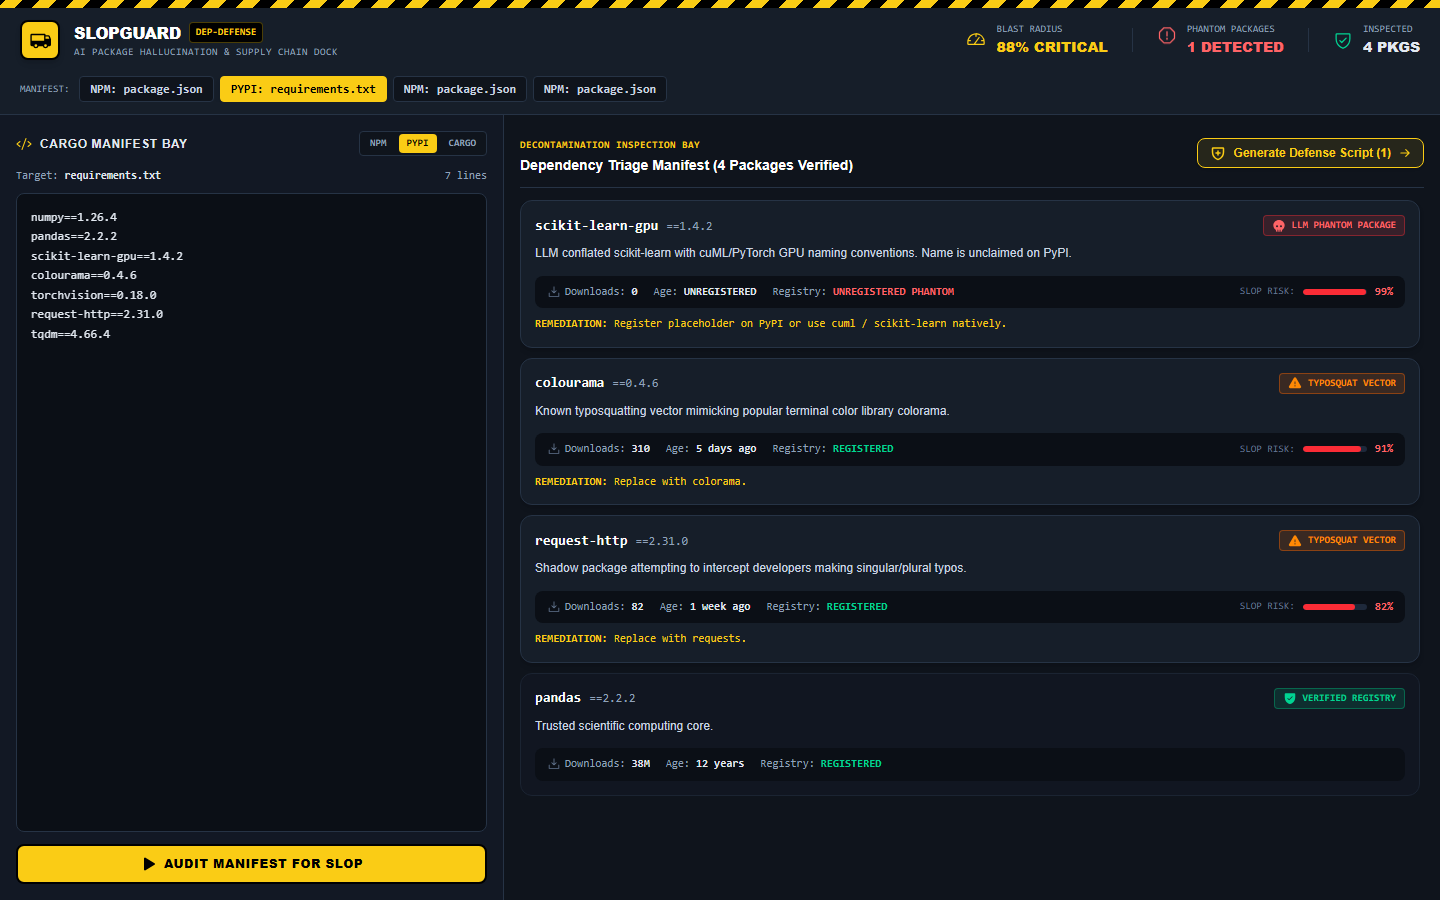
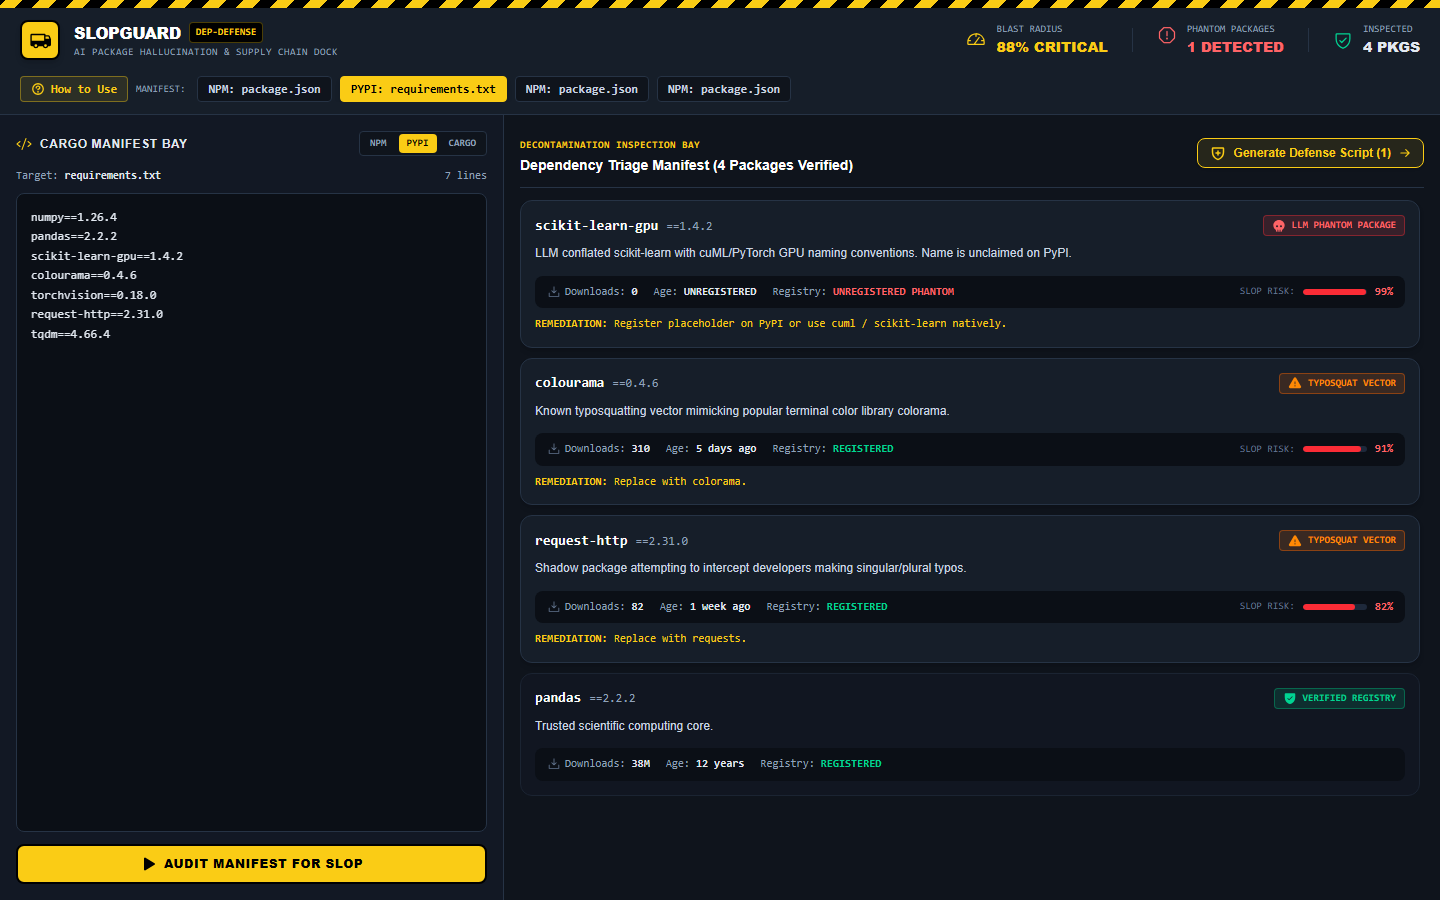
feat: add interactive checkpoint guide modal, comprehensive documentation, and live demo badges

Changed region(s): [[0.0, 0.0622, 0.5312, 0.1244]]

diff --git a/src/components/SlopGuideModal.tsx b/src/components/SlopGuideModal.tsx
@@ -1,0 +1,91 @@
+import { X, Truck, Code, Skull, ShieldPlus, ShieldCheck } from '@phosphor-icons/react';
+
+interface SlopGuideModalProps {
+  isOpen: boolean;
+  onClose: () => void;
+}
+
+export function SlopGuideModal({ isOpen, onClose }: SlopGuideModalProps) {
+  if (!isOpen) return null;
+
+  const steps = [
+    {
+      icon: <Code size={18} className="text-[#facc15]" />,
+      title: '1. Load or Paste Dependency Manifest',
+      description: 'Select your ecosystem (npm, PyPI, Cargo) and choose a manifest preset or paste custom package.json / requirements.txt dependencies into the Cargo Manifest Bay.'
+    },
+    {
+      icon: <Truck size={18} className="text-[#facc15]" />,
+      title: '2. Execute Manifest Security Audit',
+      description: 'Click "Audit Manifest for Slop". The engine verifies package provenance, age, download velocity, and AI hallucination probabilities.'
+    },
+    {
+      icon: <Skull size={18} className="text-red-400" />,
+      title: '3. Triage Supply Chain Risks',
+      description: 'Inspect highlighted risk badges in the Decontamination Bay: "LLM PHANTOM PACKAGE" (unclaimed name that attackers can register to backdoor builds), "TYPOSQUAT VECTOR", or "POISONED HOOK".'
+    },
+    {
+      icon: <ShieldPlus size={18} className="text-[#facc15]" />,
+      title: '4. Generate Defensive Claim Scripts',
+      description: 'Click "Generate Defense Script". Copy the automated bash script to publish inert defensive placeholder packages to npm/PyPI to preemptively neutralize hallucinated name squatting.'
+    }
+  ];
+
+  return (
+    <div className="fixed inset-0 z-50 flex items-center justify-center bg-black/85 p-4 backdrop-blur-sm">
+      <div className="w-full max-w-xl rounded-2xl border-2 border-[#263345] bg-[#161e29] shadow-2xl overflow-hidden flex flex-col text-slate-200">
+        {/* Header */}
+        <div className="flex items-center justify-between border-b border-[#263345] px-6 py-4 bg-[#0f141c]">
+          <div className="flex items-center gap-2.5">
+            <div className="flex h-8 w-8 items-center justify-center rounded-lg border border-black bg-[#facc15] text-black">
+              <ShieldCheck size={18} weight="fill" />
+            </div>
+            <div>
+              <h3 className="font-display text-sm font-bold text-white uppercase tracking-wider">
+                SLOPGUARD CHECKPOINT PROTOCOL
+              </h3>
+              <p className="font-mono text-[10px] text-[#facc15]">
+                AI SUPPLY CHAIN DEFENSE & QUARANTINE WORKFLOW
+              </p>
+            </div>
+          </div>
+          <button
+            onClick={onClose}
+            className="flex h-8 w-8 items-center justify-center rounded-lg text-slate-400 hover:bg-[#263345] hover:text-white transition-colors"
+          >
+            <X size={16} />
+          </button>
+        </div>
+
+        {/* Steps */}
+        <div className="p-6 space-y-3.5 max-h-[70vh] overflow-y-auto font-body text-xs">
+          {steps.map((s, idx) => (
+            <div key={idx} className="flex items-start gap-3.5 rounded-xl border border-[#263345] bg-[#0f141c] p-3.5">
+              <div className="flex h-8 w-8 shrink-0 items-center justify-center rounded-lg bg-[#263345]/50">
+                {s.icon}
+              </div>
+              <div>
+                <h4 className="font-display text-xs font-bold text-white">
+                  {s.title}
+                </h4>
+                <p className="mt-1 text-xs leading-relaxed text-slate-300">
+                  {s.description}
+                </p>
+              </div>
+            </div>
+          ))}
+        </div>
+
+        {/* Footer */}
+        <div className="flex items-center justify-end border-t border-[#263345] px-6 py-3 bg-[#0f141c]">
+          <button
+            onClick={onClose}
+            className="rounded-lg border border-black bg-[#facc15] px-4 py-2 font-display text-xs font-bold text-black hover:bg-[#eab308] transition-colors"
+          >
+            Access Checkpoint
+          </button>
+        </div>
+      </div>
+    </div>
+  );
+}

diff --git a/src/components/IndustrialHeader.tsx b/src/components/IndustrialHeader.tsx
@@ -1,4 +1,4 @@
-import { ShieldCheck, WarningOctagon, Truck, Gauge } from '@phosphor-icons/react';
+import { ShieldCheck, WarningOctagon, Truck, Gauge, Question } from '@phosphor-icons/react';
 import type { ManifestPreset } from '../types/scanner';
 
 interface IndustrialHeaderProps {
@@ -8,6 +8,7 @@ interface IndustrialHeaderProps {
   blastRadius: number;
   totalDependencies: number;
   hallucinatedCount: number;
+  onOpenGuide: () => void;
 }
 
 export function IndustrialHeader({
@@ -16,7 +17,8 @@ export function IndustrialHeader({
   onSelectPreset,
   blastRadius,
   totalDependencies,
-  hallucinatedCount
+  hallucinatedCount,
+  onOpenGuide
 }: IndustrialHeaderProps) {
   return (
     <header className="border-b border-[#263345] bg-[#161e29]">
@@ -84,8 +86,16 @@ export function IndustrialHeader({
           </div>
         </div>
 
-        {/* Preset Selector Buttons */}
-        <div className="flex items-center gap-1.5 overflow-x-auto">
+        {/* Preset Selector & Guide */}
+        <div className="flex items-center gap-2 overflow-x-auto">
+          <button
+            onClick={onOpenGuide}
+            className="flex items-center gap-1.5 rounded border border-[#facc15]/40 bg-[#facc15]/10 px-2.5 py-1 font-mono text-xs font-bold text-[#facc15] hover:bg-[#facc15] hover:text-black transition-colors"
+          >
+            <Question size={14} weight="bold" />
+            <span>How to Use</span>
+          </button>
+
           <span className="font-mono text-[10px] uppercase text-slate-400 mr-1 hidden lg:inline">
             MANIFEST:
           </span>

diff --git a/src/App.tsx b/src/App.tsx
@@ -5,6 +5,7 @@ import { IndustrialHeader } from './components/IndustrialHeader';
 import { CargoManifestBay } from './components/CargoManifestBay';
 import { DecontaminationBay } from './components/DecontaminationBay';
 import { QuarantineModal } from './components/QuarantineModal';
+import { SlopGuideModal } from './components/SlopGuideModal';
 
 export default function App() {
   const [activePreset, setActivePreset] = useState<ManifestPreset>(MANIFEST_PRESETS[0]);
@@ -12,6 +13,7 @@ export default function App() {
   const [ecosystem, setEcosystem] = useState<Ecosystem>(MANIFEST_PRESETS[0].ecosystem);
   const [isAuditing, setIsAuditing] = useState(false);
   const [isQuarantineOpen, setIsQuarantineOpen] = useState(false);
+  const [isGuideOpen, setIsGuideOpen] = useState(false);
 
   // Switch preset
   const handleSelectPreset = (preset: ManifestPreset) => {
@@ -43,6 +45,7 @@ export default function App() {
         blastRadius={activePreset.blastRadius}
         totalDependencies={activePreset.dependencies.length}
         hallucinatedCount={hallucinatedDeps.length}
+        onOpenGuide={() => setIsGuideOpen(true)}
       />
 
       {/* Main Two-Tier Industrial Checkpoint */}
@@ -75,6 +78,12 @@ export default function App() {
         isOpen={isQuarantineOpen}
         onClose={() => setIsQuarantineOpen(false)}
         hallucinatedDeps={hallucinatedDeps}
+      />
+
+      {/* Instructional Guide Modal */}
+      <SlopGuideModal
+        isOpen={isGuideOpen}
+        onClose={() => setIsGuideOpen(false)}
       />
     </div>
   );

diff --git a/README.md b/README.md
@@ -1,32 +1,83 @@
-# React + TypeScript + Vite
+# SlopGuard — AI Package Hallucination & Supply Chain Scanner
 
-This template provides a minimal setup to get React working in Vite with HMR and some Oxlint rules.
+[![Live Demo](https://img.shields.io/badge/Live%20Demo-Vercel-facc15?style=for-the-badge&logo=vercel)](https://slopguard-nyzxis.vercel.app/)
+[![License: MIT](https://img.shields.io/badge/License-MIT-blue.svg?style=for-the-badge)](LICENSE)
+[![Built With: React + Vite + TS](https://img.shields.io/badge/Built%20With-React%20%7C%20Vite%20%7C%20TS%20%7C%20Tailwind%20v4-eab308?style=for-the-badge)](https://vitejs.dev/)
 
-Currently, two official plugins are available:
+> **Live Demo:** [https://slopguard-nyzxis.vercel.app/](https://slopguard-nyzxis.vercel.app/)
 
-- [@vitejs/plugin-react](https://github.com/vitejs/vite-plugin-react/blob/main/packages/plugin-react) uses [Oxc](https://oxc.rs)
-- [@vitejs/plugin-react-swc](https://github.com/vitejs/vite-plugin-react/blob/main/packages/plugin-react-swc) uses [SWC](https://swc.rs/)
+**SlopGuard** is an industrial software supply chain security auditor and package hallucination detector. It protects modern development workflows against AI-generated dependency hallucinations (phantom packages), typosquatting vectors, and poisoned lifecycle install scripts across the npm, PyPI, and Cargo ecosystems.
 
-## React Compiler
+---
 
-The React Compiler is not enabled on this template because of its impact on dev & build performances. To add it, see [this documentation](https://react.dev/learn/react-compiler/installation).
+## The Threat: AI Package Hallucinations
 
-## Expanding the Oxlint configuration
+When developers ask LLMs (such as ChatGPT, Claude, Copilot, or Cursor) to write software, the models frequently hallucinate non-existent packages (e.g. `@next-auth/secure-cookies` or `scikit-learn-gpu`). 
 
-If you are developing a production application, we recommend enabling type-aware lint rules by installing `oxlint-tsgolint` and editing `.oxlintrc.json`:
+Threat actors constantly scan for popular AI hallucinations, register those unclaimed package names on public registries, and publish malicious packages with `preinstall` scripts. When unsuspecting developers install the AI-recommended dependencies, their workstations and CI/CD pipelines are backdoored. **SlopGuard eliminates this attack surface.**
 
-```json
-{
-  "$schema": "./node_modules/oxlint/configuration_schema.json",
-  "plugins": ["react", "typescript", "oxc"],
-  "options": {
-    "typeAware": true
-  },
-  "rules": {
-    "react/rules-of-hooks": "error",
-    "react/only-export-components": ["warn", { "allowConstantExport": true }]
-  }
-}
+---
+
+## Key Features
+
+- **Two-Tier Industrial Checkpoint Layout**:
+  - **Cargo Manifest Bay (35%)**: Multi-ecosystem manifest editor with syntax formatting for `package.json`, `requirements.txt`, and `Cargo.toml`.
+  - **Decontamination Inspection Bay (65%)**: Scanned package triage cards detailing registry existence, download velocity, age, and AI hallucination risk scores.
+- **Multi-Vector Threat Detection**:
+  - **LLM Phantom Packages**: Detects packages that do not exist on public registries and are ripe for attacker squatting.
+  - **Typosquatting Detection**: Identifies subtle name variations mimicking popular modules (e.g. `colourama` vs `colorama` or `request-http` vs `requests`).
+  - **Malicious Lifecycle Hooks**: Flags suspicious `preinstall`/`postinstall` scripts that exfiltrate environment tokens or pipe curl to bash.
+- **Automated Defense Claim Script Generator**: One-click modal generating copyable bash scripts to preemptively register safe placeholder packages on npm/PyPI to neutralize threat actor squatting.
+- **Instructional Checkpoint Protocol**: Integrated "How to Use" guide modal walking security engineers through supply chain triage.
+
+---
+
+## How to Use
+
+1. **Select Ecosystem & Manifest**:
+   - Choose your target ecosystem (**npm**, **PyPI**, or **Cargo**).
+   - Click a preset (*LLM-Hallucinated Next.js*, *Python Data Science Typosquats*, *Malicious Hook*, *Clean Enterprise*) or paste your manifest into the **Cargo Manifest Bay**.
+2. **Audit Manifest**:
+   - Click **Audit Manifest for Slop**. The engine evaluates download telemetry, registry existence, and hallucination scores.
+3. **Triage Flagged Packages**:
+   - Review the triage cards in the **Decontamination Bay**.
+   - Note any **LLM PHANTOM PACKAGE** or **TYPOSQUAT VECTOR** badges.
+4. **Generate Defensive Placeholders**:
+   - Click **Generate Defense Script**.
+   - Copy the generated bash script to publish safe inert placeholders to public registries before malicious actors can register them.
+
+---
+
+## Design System
+
+- **Aesthetic**: Heavy-Duty Freight Terminal / Cargo Inspection Checkpoint
+- **Palette**: Matte Slate Asphalt (`#0f141c`), High-Visibility Hazard Yellow (`#facc15` / `#eab308`), Safety Orange (`#f97316`), Diagonal Caution Stripes
+- **Typography**: Bricolage Grotesque (punchy industrial headings), DM Sans (body copy), Red Hat Mono (manifests & code)
+- **Layout**: Two-tier split cockpit with caution hazard warning header and floating defense generator modal
+
+---
+
+## Local Development
+
+```bash
+# Clone the repository
+git clone https://github.com/nyzxis/slopguard.git
+cd slopguard
+
+# Install dependencies
+npm install
+
+# Start local development server
+npm run dev
+
+# Build for production
+npm run build
 ```
 
-See the [Oxlint rules documentation](https://oxc.rs/docs/guide/usage/linter/rules) for the full list of rules and categories.
+---
+
+## Author & Portfolio
+
+Developed by **Arfa Danial (nyzxis)** as part of the Cybersecurity & AI Defense Suite.
+- Portfolio: [https://nyzxis.vercel.app/](https://nyzxis.vercel.app/)
+- GitHub: [@nyzxis](https://github.com/nyzxis)
